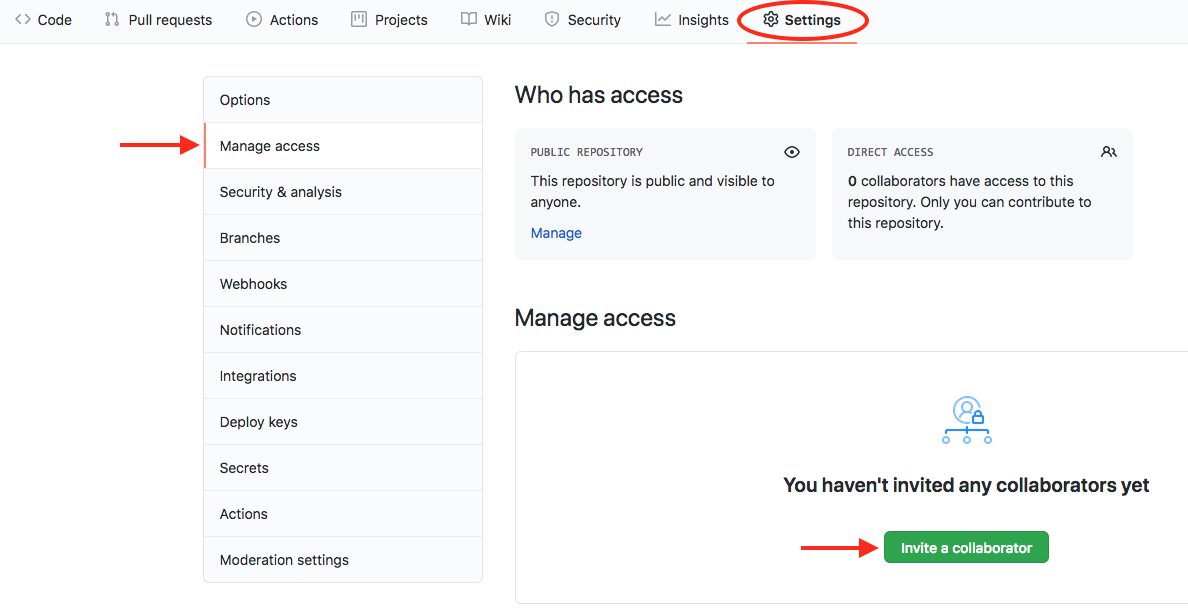
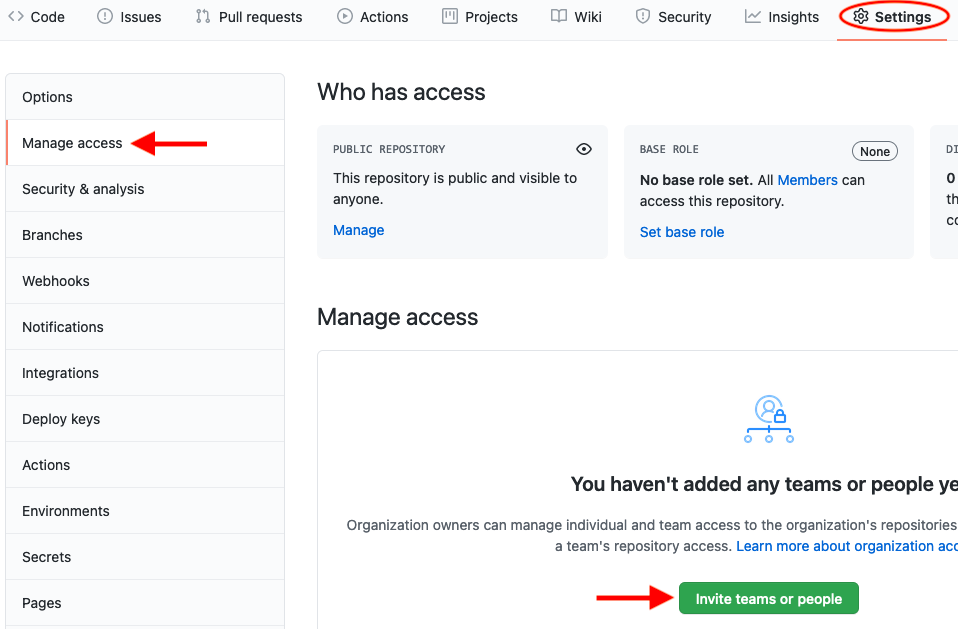
Finished draft for flask-game-repo.rst page.

diff --git a/src/assignments/flask-game-repo.rst b/src/assignments/flask-game-repo.rst
@@ -107,10 +107,28 @@ hold the *remote* copy of your project code.
       :alt: Copy the third set of terminal instructions.
       :width: 80%
 
-Good! Your local game directory is now linked to the remote version. You should
-be able to see the same files and folders online and in VS Code.
+#. When successful, you'll see a lot of text appear in the console. It will end
+   with something like this:
 
-   [Insert GitHub project screenshot]
+   .. sourcecode:: bash
+
+      To https://github.com/username/project_name.git
+      * [new branch]      main -> main
+      Branch 'main' set up to track remote branch 'main' from 'origin'.
+
+   ``username`` and ``project_name`` will match your GitHub username and what
+   you called your repository. The last line confirms the link between your
+   local ``main`` branch and the remote version.
+
+Good! Now click on your project name in GitHub. You should see the same files
+and folders in both GitHub and VS Code. The exception to this is the directory
+for your virtual environment, which won't appear online.
+
+.. figure:: figures/linked-GH-repo.png
+   :alt: GitHub repository page, showing the same files as in VS Code (except game-env).
+   :width: 50%
+
+   Congratulations! Your project code now exists online.
 
 Add Teammate(s) to Project
 --------------------------
@@ -118,8 +136,39 @@ Add Teammate(s) to Project
 Finally, you need to grant your partner(s) permission to make changes to the
 remote repository.
 
-In GitHub: Grant edit access to collaborator(s). (Reference Communication
-Log assignment).
+#. On the GitHub repository page, click the *Settings* button. Select the
+   *Manage Access* option and click the green *Invite teams or people* button.
+
+   .. figure:: figures/com-log/manage-access.png
+      :alt: Click "Settings" and "Manage Access" to let other users modify the repo.
+      :width: 60%
+
+      Give your team access to your repo.
+
+#. Next, enter the GitHub username for your partner. Be sure to grant them the
+   proper level of access. ``Admin`` gives them the ability to delete the repo
+   from your account at any time. The ``Write`` and ``Maintain`` roles allow
+   them to edit the repo but not delete it.
+
+   .. figure:: figures/com-log/add-repo-partners.png
+      :alt: Enter a GitHub username, choose level of access, then click the Add button.
+      :width: 40%
+
+      Decide how much control you want to give your partner.
+
+#. When your partner logs into GitHub and visits the project URL, they will see
+   an invitation to join the repository. 
+#. Repeat steps 1 - 3 for each member of your team.
+
+Partners: Clone the Project
+---------------------------
+
+Each partner on the project should *clone* a copy of the repository to their
+own device.
+
+You and your team can now *push* changes up to GitHub and *pull* updates down
+to your machines. If you need a reminder how to do this, check out the
+:ref:`Communication Log <git-push-and-pull>` assignment.
 
 Ready to Go!
 ------------
@@ -129,4 +178,4 @@ experience under your belt.
 
 Now it's time to git back to building your game!
 
-:ref:`Return to Assignment 6 <flask-game>`.
+:ref:`Return to Assignment 6 <flask-game-part-2>`.

diff --git a/src/assignments/communication-log.rst b/src/assignments/communication-log.rst
@@ -106,12 +106,17 @@ setup action is necessary.
 
    .. figure:: figures/com-log/manage-access.png
       :alt: Click "Settings" and "Manage Access" to let other users modify the repo.
-      :width: 70%
+      :width: 60%
 
       Manage access to your repo.
 
-#. **Base**: Click on the green *Invite a collaborator* button. Enter your
-   partner's GitHub username and click *Add to repository*.
+#. **Base**: Click on the green *Invite teams or people* button. Enter your
+   partner's GitHub username and grant them the proper level of access.
+   ``Admin`` gives them the ability to delete the repo from your account at any
+   time. The ``Write`` and ``Maintain`` roles allow them to edit the repo but
+   not delete it.
+   
+   When ready, click *Add to repository*. 
 
    .. figure:: figures/com-log/add-repo-partners.png
       :alt: Enter a GitHub username, then click the Add button.
@@ -131,6 +136,8 @@ setup action is necessary.
 
 Whew! That was quite the setup experience. Now you're ready to dive into the
 main part of the assignment.
+
+.. _git-push-and-pull:
 
 Part B: First Message Exchange
 ------------------------------

diff --git a/src/assignments/flask-game.rst b/src/assignments/flask-game.rst
@@ -97,6 +97,8 @@ thinking time.
    Not every function in a Flask app has to render a template. It's perfectly
    fine for a function to serve a supporting role instead.
 
+.. _flask-game-part-2:
+
 Part 2: Create a GitHub Repository
 ----------------------------------
 
